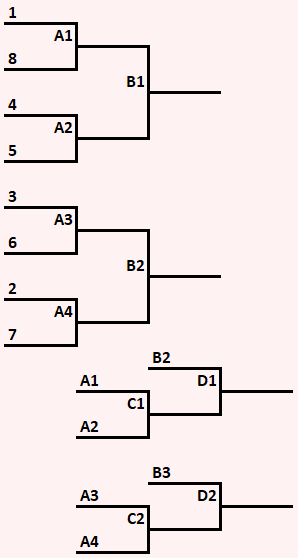
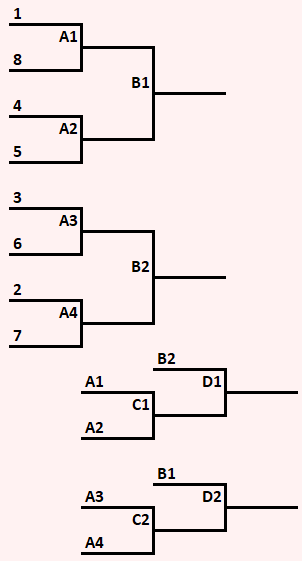
chiefs and b3 bugfix

diff --git a/thesis-tex/main.tex b/thesis-tex/main.tex
@@ -2,9 +2,6 @@
 
 \usepackage{style}
 
-% CHIEFS
-% B3 vs B1 2x
-
 \begin{document}
 
     \ttl
